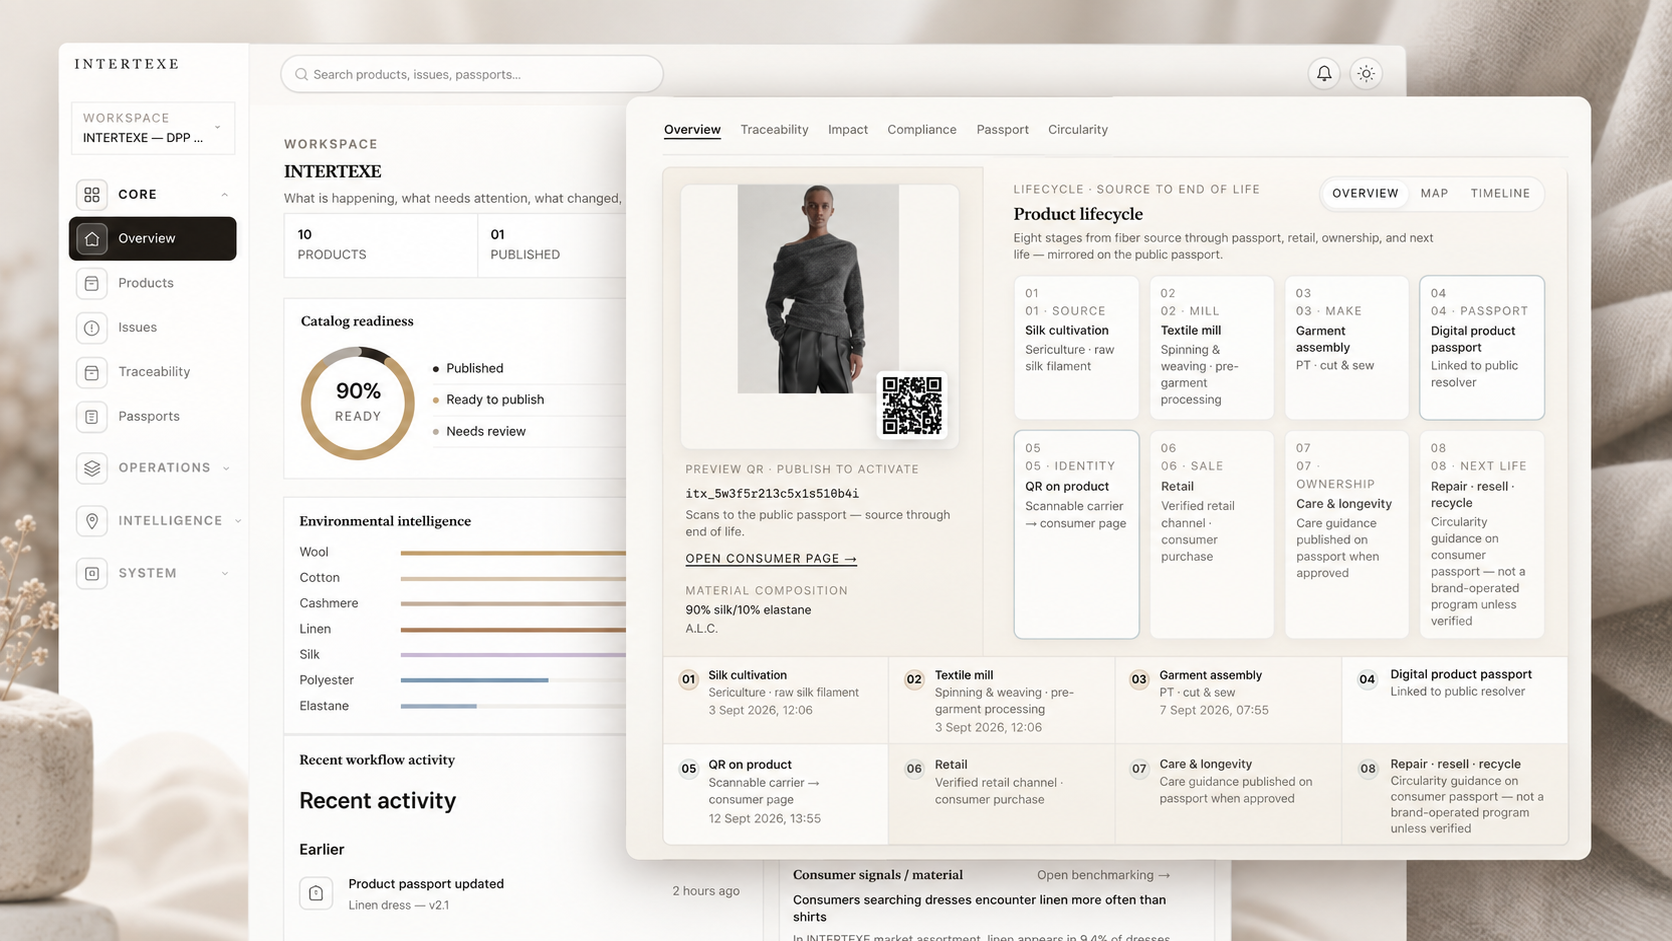
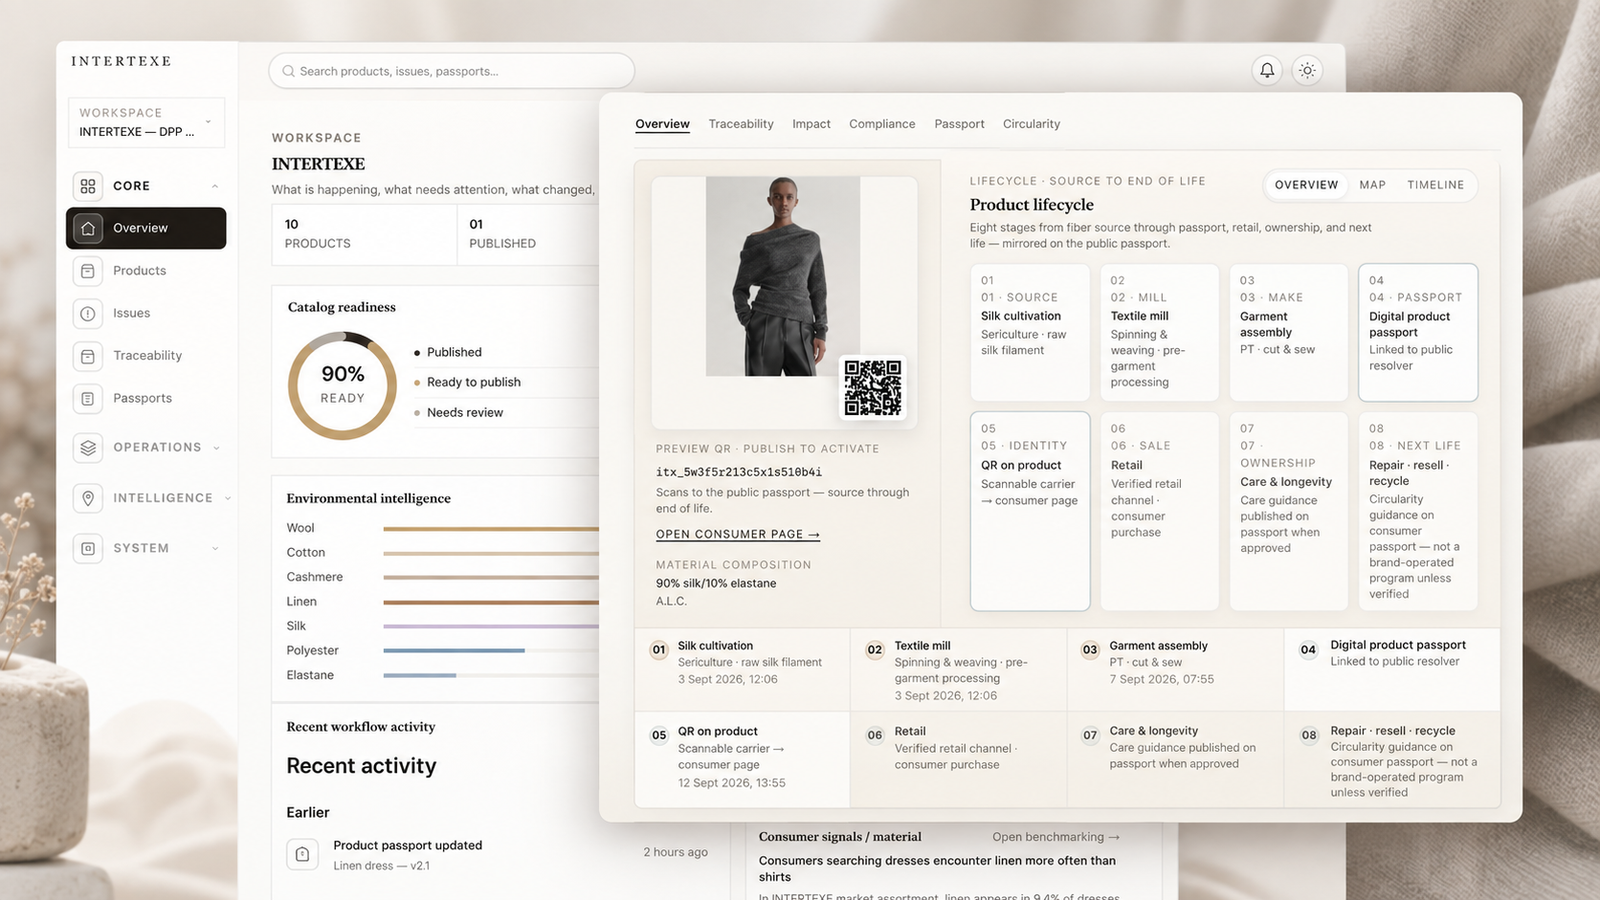
Fix demo hero sizing so the page can load cleanly.
Stop the scanner graphic from overlapping the copy, and shrink the heaviest demo PNGs so /platform/demo hydrates faster.

Changed region(s): [[0.5312, 0.4044, 0.5625, 0.4667]]

diff --git a/app/platform/demo/DemoHero.tsx b/app/platform/demo/DemoHero.tsx
@@ -5,7 +5,7 @@ export function DemoHero() {
   return (
     <section id="hero" className="demo-editorial-hero scroll-mt-24">
       <div className="demo-editorial-hero-inner max-w-[1280px] mx-auto px-4 sm:px-6 md:px-8 lg:px-12 pt-12 sm:pt-16 lg:pt-20 pb-10 lg:pb-16 overflow-visible">
-        <div className="demo-editorial-hero-layout lg:grid lg:grid-cols-[minmax(0,26%)_minmax(0,74%)] lg:gap-6 xl:gap-8 lg:items-center">
+        <div className="demo-editorial-hero-layout lg:grid lg:grid-cols-[minmax(0,30%)_minmax(0,70%)] lg:gap-4 xl:gap-6 lg:items-center">
           <div className="mb-10 lg:mb-0">
             <p className="text-[10px] tracking-[0.28em] uppercase text-[var(--platform-quiet)] mb-6">Live demo</p>
             <h1
@@ -34,8 +34,8 @@ export function DemoHero() {
             <img
               src="/platform/demo-hero-scanner.png"
               alt="INTERTEXE scanner app turning a garment tag into a digital product passport — from tag to passport, cleaner product data, better customer experience, and real sales potential"
-              width={1672}
-              height={941}
+              width={1600}
+              height={900}
               className="demo-editorial-hero-art-image"
               loading="eager"
             />

diff --git a/app/platform/demo/demo-tour.css b/app/platform/demo/demo-tour.css
@@ -2,7 +2,7 @@
 
 .demo-editorial-hero {
   background: var(--platform-bg);
-  overflow: visible;
+  overflow: hidden;
 }
 
 .demo-editorial-hero-layout {
@@ -24,15 +24,13 @@
   .demo-editorial-hero-art {
     min-height: 0;
     aspect-ratio: auto;
-    margin-right: -2.5rem;
-    margin-left: -1rem;
+    margin-right: -1.5rem;
   }
 }
 
 @media (min-width: 1280px) {
   .demo-editorial-hero-art {
-    margin-right: -4.5rem;
-    margin-left: -1.5rem;
+    margin-right: -2.5rem;
   }
 }
 
@@ -47,22 +45,22 @@
 
 @media (min-width: 1024px) {
   .demo-editorial-hero-art-image {
-    width: 132%;
+    width: 108%;
     max-width: none;
-    transform-origin: center right;
+    object-position: center right;
   }
 }
 
 @media (min-width: 1280px) {
   .demo-editorial-hero-art-image {
-    width: 142%;
+    width: 112%;
   }
 }
 
 @media (max-width: 1023px) {
   .demo-editorial-hero-art-image {
-    width: 112%;
-    max-width: 42rem;
+    width: 100%;
+    max-width: 36rem;
     margin-inline: auto;
     object-position: center center;
   }

diff --git a/app/platform/demo/DemoProductWorkflow.tsx b/app/platform/demo/DemoProductWorkflow.tsx
@@ -250,8 +250,8 @@ export function DemoProductWorkflow() {
             <img
               src="/platform/demo-validate.png"
               alt="INTERTEXE product workspace with key indicators — traceability, compliance, recyclability, and environmental impact for a ready-to-publish record"
-              width={1672}
-              height={941}
+              width={1600}
+              height={900}
               className="w-full rounded-xl border border-[var(--platform-border)]"
             />
           </WorkflowPanel>
@@ -294,8 +294,8 @@ export function DemoProductWorkflow() {
             <img
               src="/platform/demo-activate.png"
               alt="INTERTEXE product record with preview QR and full source-to-next-life lifecycle — publish to activate across channels"
-              width={1672}
-              height={941}
+              width={1600}
+              height={900}
               className="w-full rounded-xl border border-[var(--platform-border)]"
             />
           </WorkflowPanel>
